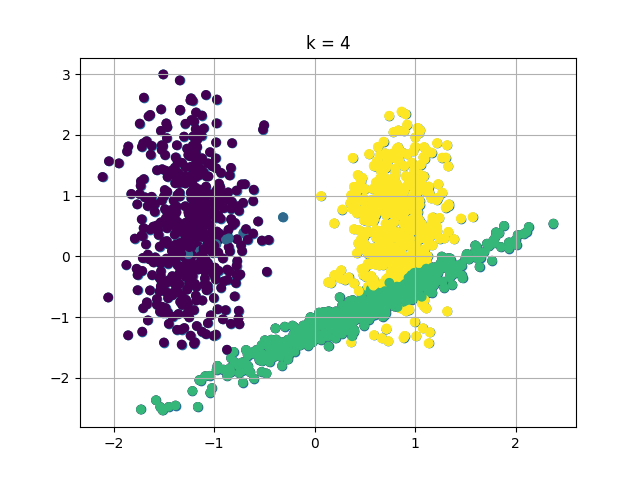
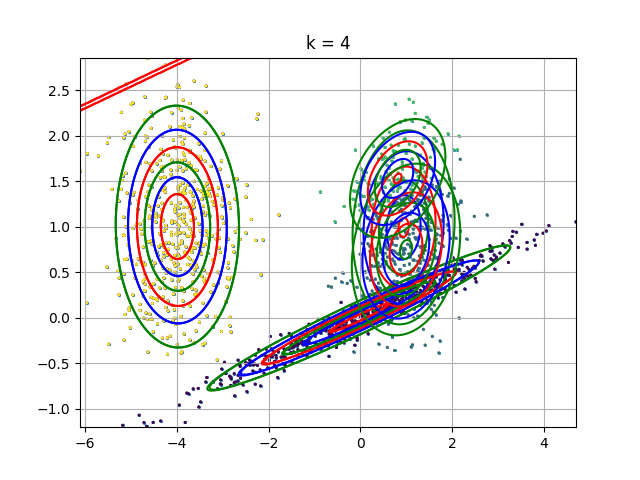
gif

diff --git a/1805008.py b/1805008.py
@@ -2,6 +2,8 @@ import pandas as pd
 import numpy as np
 import matplotlib.pyplot as plt
 import sys
+import imageio
+import os
 
 np.random.seed(5)
 
@@ -38,13 +40,14 @@ def pcaUsingLib(data, components):
 	return pca.transform(data)
 
 def scatterPlot(data, title, imgPath):
-	plt.scatter(data[:, 0], data[:, 1])
+	plt.scatter(data[:, 0], data[:, 1],s = 1.5)
 	plt.grid(True)
 	plt.title(title)
 	if imgPath is not None:
 		plt.savefig(imgPath)
-	else:
-		plt.show()
+		plt.close()
+	# else:
+	# 	plt.show()
 
 
 def pca(data):
@@ -65,6 +68,8 @@ class MultiVariateGaussian:
 		if covariance is None:
 			while True:
 				self.covariance = np.random.rand(dimension, dimension)
+				self.covariance = self.covariance + self.covariance.T
+				self.covariance /= 2
 				det = np.linalg.det(self.covariance)
 				if det > 0:
 					break
@@ -160,6 +165,8 @@ class EM:
 			# print("covariance", covariance)
 			while True:
 				covariance = np.random.rand(self.dimension, self.dimension)
+				covariance = covariance + covariance.T
+				covariance /= 2
 				det = np.linalg.det(covariance)
 				if det > 0:
 					break
@@ -188,13 +195,31 @@ class EM:
 		# print("logLikelihood", self.logLikelihood(data))
 		return self.logLikelihood(data)
 	
-	def run(self, data, iterations):
+	def run(self, data, iterations, gifName = None):
+		if not os.path.exists("temp"):
+			os.mkdir("temp")
 		logLikelihoods = []
+		imgFileNames = []
 		for i in range(iterations):
 			logLikelihoods.append(self.OneStep(data))
 			if (len(logLikelihoods) > 1):
-				if (logLikelihoods[-1] == logLikelihoods[-2]):
+				if ( abs(logLikelihoods[-1] - logLikelihoods[-2]) < .00001):
 					break
+			if gifName is not None:
+				fileName = f"temp/{i}.png"
+				self.plotAssignments(data, f"iteration {i}", fileName)
+				imgFileNames.append(fileName)
+			
+		if gifName is not None:
+			with imageio.get_writer(gifName, mode='I') as writer:
+				for fileName in imgFileNames:
+					image = imageio.imread(fileName)
+					writer.append_data(image)
+				# for image in imgs:
+				# 	writer.append_data(image)
+
+			# save gif using all images of img array
+			# imgs[0].save(f"{self.components}_clusters.gif", save_all=True, append_images=imgs[1:], optimize=False, duration=40, loop=0)
 		
 		return logLikelihoods
 
@@ -212,14 +237,42 @@ class EM:
 		
 		# scatter plot with assignments
 		assignments = np.array(assignments)
-		plt.scatter(data[:, 0], data[:, 1], c=assignments)
+		plt.scatter(data[:, 0], data[:, 1], c=assignments, s = 1.5)
 		# plt.legend()
 		plt.grid(True)
 		plt.title(title)
+
+		# plot contour of each model
+		for i, model in enumerate(self.gModels):
+			xl = np.min(data[:, 0])
+			xr = np.max(data[:, 0])
+			yl = np.min(data[:, 1])
+			yr = np.max(data[:, 1])
+
+			gap = 0.01
+			step = .01
+
+			x, y = np.mgrid[xl - gap : xr + gap : step, yl - gap : yr + gap : step]
+			xe = np.expand_dims(x, axis=2)
+			ye = np.expand_dims(y, axis=2)
+			xy = np.concatenate((xe, ye), axis=2)
+			xy = np.reshape(xy, (-1, 2))
+			# print(xy.shape)
+			# print(x, y)
+			# print(x.shape, y.shape)
+			# flatten xy to shape (n, 2	)
+			prob = model.getProbabilityBatch(xy)
+			prob = np.reshape(prob, (x.shape[0], x.shape[1]))
+			# generate n colors
+			# plt.contour(x, y, prob, levels=3, colors=['r', 'g', 'b'][i])
+			# change the line width of each contour
+
+			plt.contour(x, y, prob, linewidth = 1, colors = ['r', 'g', 'b'])
+
 		if imgPath is not None:
 			plt.savefig(imgPath)
-		else:
-			plt.show()
+			plt.close()
+		return plt.gcf()
 	
 	def logLikelihood(self, data):
 		probVectors = []
@@ -232,51 +285,78 @@ class EM:
 
 		return logLikelihood
 
-def bestKCluster(data, K):
+def bestKCluster(data, K, showAssignmentsInEachStep=False):
 	tryRand = 5
-	maxSteps = 1000
+	maxSteps = 20
 	bestLogLikelihood = -np.inf
 	bestEM = None
 
+	print(f"Running EM Algorithm for k = {K}")
 	for _ in range(tryRand):
+		print(f"Attempt {_ + 1}")
 		em = EM(data.shape[1], K)
-		logLikelihoods = em.run(data, maxSteps)
+		gifName = None
+		if showAssignmentsInEachStep:
+			gifName = f"{imgPrefix}_k_{K}_attempt_{_+1}.gif"
+		logLikelihoods = em.run(data, maxSteps, gifName)
 		# print("logLikelihood", logLikelihood)
 		if logLikelihoods[-1] > bestLogLikelihood:
 			bestLogLikelihood = logLikelihoods[-1]
 			bestEM = em
 		
 		print("logLikelihood", logLikelihoods[-1])
+	print(f"best loglikelihood {bestLogLikelihood}")
 	return bestEM, bestLogLikelihood
 
+imgPrefix = None
 def main():
 	path = '3D_data_points.txt'
+	saveFig = True
 	if len(sys.argv) > 1:
 		path = sys.argv[1]
+	
+	if len(sys.argv) > 2:
+		saveFig = sys.argv[2] == "True"
 		
 	data = loadData(path)
+
 	print(data.shape)
+	
 	title = "Original_Data"
 	if(data.shape[1] > 2):
 		data = pca(data)
 		title = "PCA_Data"
 	else:
-		data = (data - data.mean()) / data.std()
+		# data = (data - data.mean()) / data.std()
 		data = data.values
 
+	global imgPrefix
 	imgPrefix = path.split('.')[0]
 
-	scatterPlot(data, title, imgPrefix + title + ".png")
+	print(imgPrefix)
+	
+	fileName = imgPrefix + title + ".png"
+
+	print(fileName)
+
+	if not saveFig:
+		fileName = None
+
+	scatterPlot(data, title, fileName)
 
 	print("========== EM Clustering ==========")
 
 	kVsLogLikelihood = []
 
 	for K in range(3, 9):
-		em, logLikelihood = bestKCluster(data, K)
+		em, logLikelihood = bestKCluster(data, K, not saveFig)
 		kVsLogLikelihood.append((K, logLikelihood))
 		print("K = ", K, "logLikelihood", logLikelihood)
-		em.plotAssignments(data, f"k = {K}", f"{imgPrefix}_k_{K}.png")
+		fileName = f"{imgPrefix}_k_{K}.png"
+		if not saveFig:
+			fileName = None
+		
+		em.plotAssignments(data, f"k = {K}", fileName)
 	
 	kVsLogLikelihood = np.array(kVsLogLikelihood)
 	print(kVsLogLikelihood)
@@ -288,7 +368,9 @@ def main():
 
 	plt.grid(True)
 	# plt.show()
-	plt.savefig(f"{imgPrefix}_k_vs_loglikelihood.png")
+	if saveFig:
+		plt.savefig(f"{imgPrefix}_k_vs_loglikelihood.png")
+		plt.close()
 	
 
 
